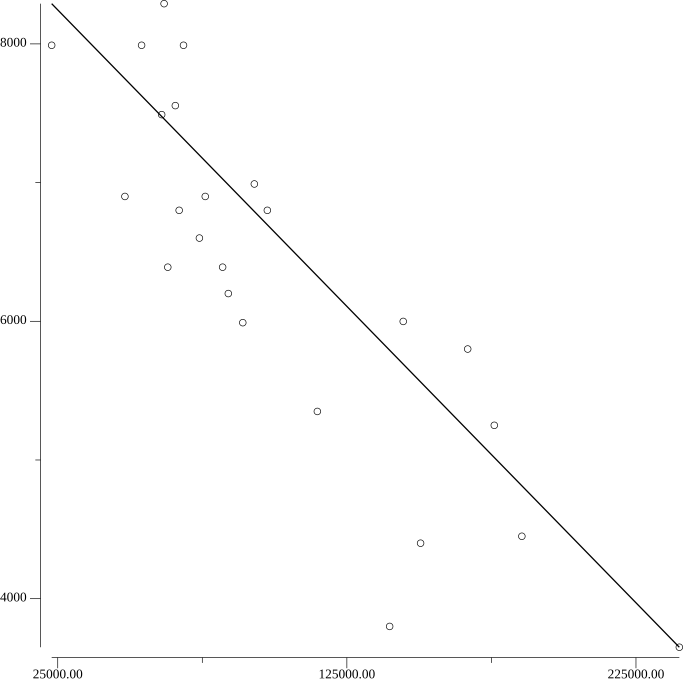
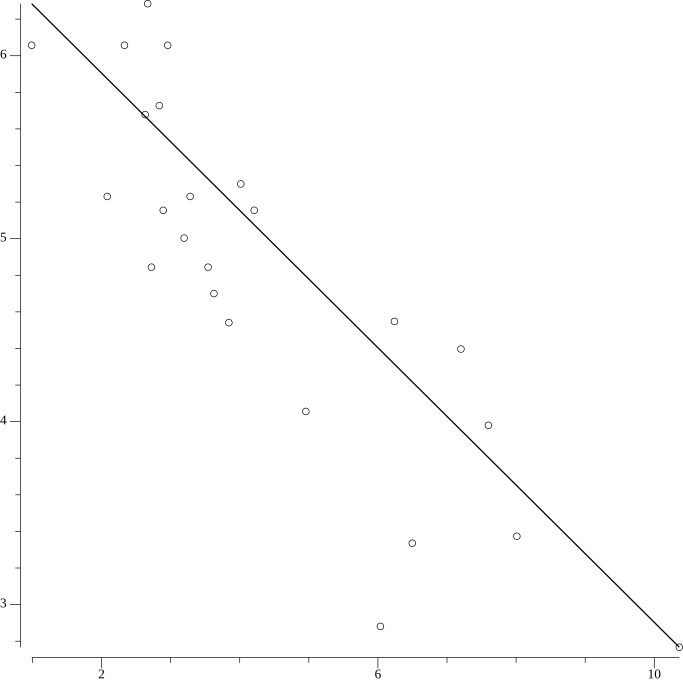
linear regresssion in progress

diff --git a/train_model.go b/train_model.go
@@ -1,46 +1,75 @@
 package main
 
 import (
-	"log"
-	"fmt"
-	"os"
 	"bufio"
+	"fmt"
+	"log"
 	"math"
+	"os"
 
+	"gonum.org/v1/gonum/mat"
 	"gonum.org/v1/plot"
 	"gonum.org/v1/plot/plotter"
 )
 
-type xy struct { x, y float64}
-
 func main() {
-	xys, err := readData("data.csv")
-	file := "data.png"
+	xys, divisor_x, divisor_y, err := readData("data.csv")
+	render_file := "data.png"
 	if err != nil {
 		log.Fatalf("Could not read data.csv: %v", err)
 	}
-	
-	err = plotData(file, xys)
-	if err != nil{
+	sum1 := 0.0
+	sum0 := 0.0
+	theta0 := 0.0
+	theta1 := 0.0
+	learning_rate := 0.01
+	for i := 1; i <= 1000; i++ {
+		sum1 = 0.0
+		sum0 = 0.0
+		for _, point := range xys {
+			sum0 += (theta0 + theta1*point.X) - point.Y
+			sum1 += ((theta0 + theta1*point.X) - point.Y) * point.X
+		}
+		theta0 = learning_rate * 1.0 / float64(xys.Len()) * sum0
+		theta1 = learning_rate * 1.0 / float64(xys.Len()) * sum1
+	}
+	theta0 *= divisor_x
+	theta1 *= divisor_y
+	fmt.Println("theta0: ", theta0)
+	fmt.Println("theta1: ", theta1)
+	fmt.Println("price for 42000: ", theta0+theta1*42000)
+
+	file, err := os.OpenFile("theta.csv", os.O_CREATE|os.O_WRONLY|os.O_TRUNC, 0600)
+	if err != nil {
+		panic(err)
+	}
+	defer file.Close()
+
+	string_data := fmt.Sprintf("theta0,theta1\n%f,%f", theta0, theta1)
+	_, err = file.WriteString(string_data)
+	if err != nil {
+		panic(err)
+	}
+	err = plotData(render_file, xys)
+	if err != nil {
 		log.Fatalf("Could not plot data: %v", err)
 	}
-	
+
 }
 
-func plotData(file string, pxys plotter.XYs) error{
+func plotData(file string, pxys plotter.XYs) error {
 	f, err := os.Create(file)
-	if err != nil{
-		return fmt.Errorf("Could not create data.png: %v", err)
+	if err != nil {
+		return fmt.Errorf("could not create data.png: %v", err)
 	}
 	defer f.Close()
 
 	p := plot.New()
 
 	s, err := plotter.NewScatter(pxys)
-	if err != nil{
-		return fmt.Errorf("Could not create scatter: %v", err)
+	if err != nil {
+		return fmt.Errorf("could not create scatter: %v", err)
 	}
-	// s.Color = color.RGBA{R: 255, A: 255 }
 	p.Add(s)
 
 	maxY := math.Inf(-1)
@@ -61,53 +90,65 @@ func plotData(file string, pxys plotter.XYs) error{
 			minY = point.Y
 		}
 	}
-	fmt.Println(minY)
 	l, err := plotter.NewLine(plotter.XYs{
-		{minX, maxY},
-		{maxX, minY},
+		{X: minX, Y: maxY},
+		{X: maxX, Y: minY},
 	})
-	if err != nil{
-		return fmt.Errorf("Could not create line: %v", err)
+	if err != nil {
+		return fmt.Errorf("could not create line: %v", err)
 	}
 	p.Add(l)
 
-
 	wt, err := p.WriterTo(512, 512, "png")
-	if err != nil{
-		return fmt.Errorf("Could not create writer: %v", err)
-	}	
+	if err != nil {
+		return fmt.Errorf("could not create writer: %v", err)
+	}
 	_, err = wt.WriteTo(f)
-	if err != nil{
-		return fmt.Errorf("Could not write to %s: %v", file, err)
+	if err != nil {
+		return fmt.Errorf("could not write to %s: %v", file, err)
 	}
 
-	if err := f.Close(); err != nil{
-		return fmt.Errorf("Could not close %s: %v", file, err)
+	if err := f.Close(); err != nil {
+		return fmt.Errorf("could not close %s: %v", file, err)
 	}
 	return nil
 }
 
-func readData(path string) (plotter.XYs, error){
+func readData(path string) (plotter.XYs, float64, float64, error) {
 	f, err := os.Open(path)
-	if err != nil{
-		return nil, err
+	if err != nil {
+		return nil, 0.0, 0.0, err
 	}
 
 	defer f.Close()
 
-	var xys plotter.XYs
+	var tmp_xys plotter.XYs
+	var x_array []float64
+	var y_array []float64
 	s := bufio.NewScanner(f)
-	for s.Scan(){
+	for s.Scan() {
 		var x, y float64
 		_, err := fmt.Sscanf(s.Text(), "%f,%f", &x, &y)
-		if err != nil{
-			fmt.Println("Bad data: %v", err)
+		if err != nil {
+			fmt.Println("Bad data: ", err)
 		} else {
-			xys = append(xys, struct{X, Y float64}{x, y})
+			tmp_xys = append(tmp_xys, struct{ X, Y float64 }{x, y})
+			x_array = append(x_array, x)
+			y_array = append(y_array, y)
 		}
 	}
-	if err := s.Err(); err != nil{
-		return nil, err
+	if err := s.Err(); err != nil {
+		return nil, 0.0, 0.0, err
 	}
-	return xys,err
+
+	vec_x := mat.NewVecDense(len(x_array), x_array)
+	vec_y := mat.NewVecDense(len(y_array), y_array)
+	divisor_x := mat.Norm(vec_x, 2) / float64(len(x_array))
+	divisor_y := mat.Norm(vec_y, 2) / float64(len(y_array))
+
+	var xys plotter.XYs
+	for _, point := range tmp_xys {
+		xys = append(xys, struct{ X, Y float64 }{point.X / divisor_x, point.Y / divisor_y})
+	}
+	return xys, divisor_x, divisor_y, err
 }
